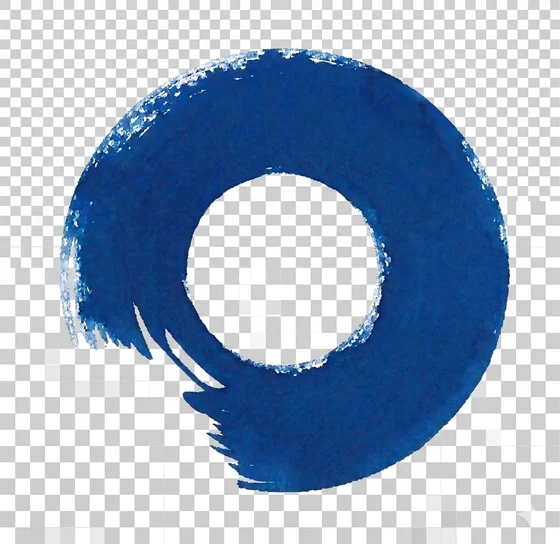
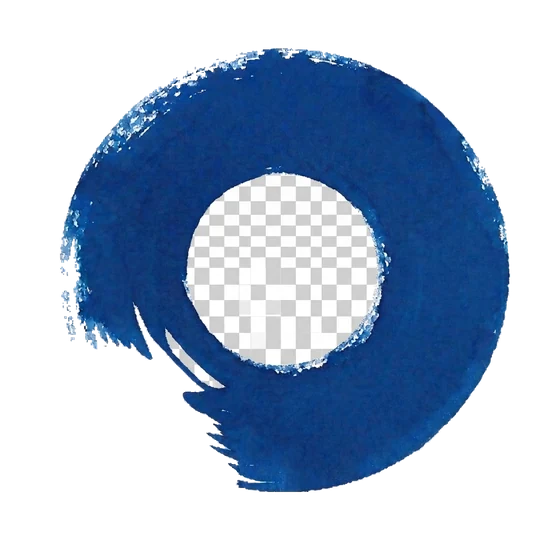
fix(ui): login top bar title and transparent hero mark on #121212
Made-with: Cursor

Changed region(s): [[0.0, 0.0, 1.0, 1.0]]

diff --git a/src/components/screens/LoginScreen.tsx b/src/components/screens/LoginScreen.tsx
@@ -86,50 +86,55 @@ export function LoginScreen() {
   if (mode === "choose") {
     return (
       <div className="login-launch">
-        <div className="login-launch-inner">
-          <div className="login-launch-hero">
-            <Image
-              alt=""
-              className="login-launch-hero-img"
-              height={544}
-              priority
-              sizes="(max-width: 420px) 88vw, 340px"
-              src="/brand/login-launch-hero.webp"
-              width={560}
-            />
-            <h1 className="login-launch-title">まぐろ丸ノート</h1>
-          </div>
-          {(formError || notice) && (
-            <p
-              className={
-                formError ? "login-launch-flash login-launch-flash--error" : "login-launch-flash login-launch-flash--ok"
-              }
-              role={formError ? "alert" : "status"}
-            >
-              {formError ?? notice}
-            </p>
-          )}
-          <div className="login-launch-actions">
-            <button
-              className="login-launch-btn login-launch-btn--primary"
-              disabled={pendingAction !== null}
-              onClick={() => void handleStartAnonymous()}
-              type="button"
-            >
-              {pendingAction === "anonymous" ? "準備中…" : "今すぐはじめる"}
-            </button>
-            <button
-              className="login-launch-btn login-launch-btn--secondary"
-              disabled={pendingAction !== null}
-              onClick={() => {
-                setMode("signin");
-                setNotice(null);
-                setFormError(null);
-              }}
-              type="button"
-            >
-              サインイン
-            </button>
+        <header className="app-header login-launch-header">
+          <h1 className="header-title">まぐろ丸ノート</h1>
+          <div className="accent-line" aria-hidden="true" />
+        </header>
+        <div className="login-launch-body">
+          <div className="login-launch-inner">
+            <div className="login-launch-hero">
+              <Image
+                alt=""
+                className="login-launch-hero-img"
+                height={544}
+                priority
+                sizes="(max-width: 420px) 88vw, 340px"
+                src="/brand/login-launch-hero.webp"
+                width={560}
+              />
+            </div>
+            {(formError || notice) ? (
+              <p
+                className={
+                  formError ? "login-launch-flash login-launch-flash--error" : "login-launch-flash login-launch-flash--ok"
+                }
+                role={formError ? "alert" : "status"}
+              >
+                {formError ?? notice}
+              </p>
+            ) : null}
+            <div className="login-launch-actions">
+              <button
+                className="login-launch-btn login-launch-btn--primary"
+                disabled={pendingAction !== null}
+                onClick={() => void handleStartAnonymous()}
+                type="button"
+              >
+                {pendingAction === "anonymous" ? "準備中…" : "今すぐはじめる"}
+              </button>
+              <button
+                className="login-launch-btn login-launch-btn--secondary"
+                disabled={pendingAction !== null}
+                onClick={() => {
+                  setMode("signin");
+                  setNotice(null);
+                  setFormError(null);
+                }}
+                type="button"
+              >
+                サインイン
+              </button>
+            </div>
           </div>
         </div>
       </div>

diff --git a/src/app/globals.css b/src/app/globals.css
@@ -1473,11 +1473,26 @@ body {
 .login-launch {
   flex: 1;
   display: flex;
-  align-items: center;
-  justify-content: center;
-  padding: 32px 24px calc(24px + var(--safe-bottom));
+  flex-direction: column;
+  align-items: stretch;
+  min-height: 0;
+  padding: 0 0 calc(24px + var(--safe-bottom));
   background: #121212;
   color: #f5f5f5;
+}
+
+.login-launch-body {
+  flex: 1;
+  display: flex;
+  flex-direction: column;
+  align-items: center;
+  justify-content: center;
+  min-height: 0;
+  padding: 24px 24px 0;
+}
+
+.login-launch-header .accent-line {
+  margin-top: 10px;
 }
 
 .login-launch-inner {
@@ -1494,7 +1509,6 @@ body {
   flex-direction: column;
   align-items: center;
   justify-content: center;
-  gap: 18px;
   text-align: center;
 }
 
@@ -1503,16 +1517,8 @@ body {
   max-width: 340px;
   height: auto;
   object-fit: contain;
-  filter: drop-shadow(0 12px 28px rgba(0, 0, 0, 0.45));
-}
-
-.login-launch-title {
-  margin: 0;
-  font-size: clamp(1.45rem, 5vw, 1.75rem);
-  font-weight: 900;
-  letter-spacing: 0.14em;
-  color: #f5f5f5;
-  line-height: 1.35;
+  /* 透明背景のロゴを #121212 上で軽く浮かせる程度（背景色の塊に見えないよう弱め） */
+  filter: drop-shadow(0 6px 18px rgba(0, 0, 0, 0.35));
 }
 
 .login-launch-flash {
